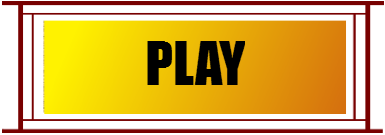
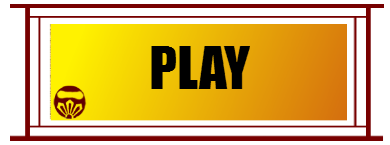
//Se subieron nuevo recursos (vidas de nivel agua,fuego, fondos de nivel fuego y agua, nuevos botones del menu principal, el ninja dle menu principal ya fue limpiado)

diff --git a/core/src/mx/itesm/ninjanofukushuu/PantallaCargando.java b/core/src/mx/itesm/ninjanofukushuu/PantallaCargando.java
@@ -165,6 +165,8 @@ public class PantallaCargando implements Screen
                     assetManager.load("seleccionNivel/galeriaWater.png",Texture.class);
                     assetManager.load("seleccionNivel/galeriaWaterLock.png",Texture.class);
 
+                    assetManager.load("seleccionNivel/galeriaWaterLock.png",Texture.class);
+
                     assetManager.load("Play.png",Texture.class);
                     assetManager.load("return.png",Texture.class);
                     assetManager.load("sonidoVentana.wav", Sound.class);
@@ -282,11 +284,11 @@ public class PantallaCargando implements Screen
                     break;
             case 6:
                 // se cargan recursos del juego..
-                //nivel tierra
+                //nivel Agua
                 assetManager.load("seleccionNivel/recursosNivelAgua/MapaDeAgua.tmx", TiledMap.class);  // Cargar info del mapa
                 //assetManager.load("seleccionNivel/recursosNivelTierra/marioSprite.png", Texture.class);    // Cargar imagen
                 assetManager.load("seleccionNivel/recursosNivelAgua/ninjita.png", Texture.class);    // Cargar imagen
-                //assetManager.load("seleccionNivel/recursosNivelAgua/fondoAgua.jpg",Texture.class); //Fondo del mapa
+                assetManager.load("seleccionNivel/recursosNivelAgua/fondoAgua.png",Texture.class); //Fondo del mapa
                 // Texturas de los botones tanto para el gampeplay como para mover las imagenes al ver la historia..
 
                 assetManager.load("seleccionNivel/botonesFlechas/salto.png", Texture.class);
@@ -329,7 +331,7 @@ public class PantallaCargando implements Screen
                 assetManager.load("seleccionNivel/recursosNivelFuego/mapaDeFuego.tmx", TiledMap.class);  // Cargar info del mapa
                 //assetManager.load("seleccionNivel/recursosNivelTierra/marioSprite.png", Texture.class);    // Cargar imagen
                 assetManager.load("seleccionNivel/recursosNivelFuego/ninjaS.png", Texture.class);    // Cargar imagen
-                //assetManager.load("seleccionNivel/recursosNivelAgua/fondoAgua.jpg",Texture.class); //Fondo del mapa
+                assetManager.load("seleccionNivel/recursosNivelFuego/fondoFuego.png",Texture.class); //Fondo del mapa
                 // Texturas de los botones tanto para el gampeplay como para mover las imagenes al ver la historia..
 
                 assetManager.load("seleccionNivel/botonesFlechas/salto.png", Texture.class);

diff --git a/core/src/mx/itesm/ninjanofukushuu/PantallaJuego.java b/core/src/mx/itesm/ninjanofukushuu/PantallaJuego.java
@@ -330,8 +330,8 @@ public class PantallaJuego implements Screen{
             hataku.getSprite().setPosition(20, 20);
 
             //Textura fondo
-            //this.texturaFondo = assetManager.get("seleccionNivel/recursosNivelTierra/fondoTierra.jpg");
-            //fondo = new Fondo(texturaFondo);
+            this.texturaFondo = assetManager.get("seleccionNivel/recursosNivelAgua/fondoAgua.png");
+            fondo = new Fondo(texturaFondo);
 
             //Textura Objetos que estan en la pantalla
             this.texturaScroll = assetManager.get("seleccionNivel/items/scroll.png");
@@ -479,8 +479,8 @@ public class PantallaJuego implements Screen{
             hataku.getSprite().setPosition(20, 20);
 
             //Textura fondo
-            //this.texturaFondo = assetManager.get("seleccionNivel/recursosNivelTierra/fondoTierra.jpg");
-            //fondo = new Fondo(texturaFondo);
+            this.texturaFondo = assetManager.get("seleccionNivel/recursosNivelFuego/fondoFuego.png");
+            fondo = new Fondo(texturaFondo);
 
             //Textura Objetos que estan en la pantalla
             this.texturaScroll = assetManager.get("seleccionNivel/items/scroll.png");
@@ -654,7 +654,7 @@ public class PantallaJuego implements Screen{
             //DIBUJAR OBJETOS COMPONENTES DEL JUEGO
         batch.setProjectionMatrix(camara.combined);
         batch.begin();
-        //fondo.render(batch);
+        fondo.render(batch);
         batch.end();
         rendererMapa.setView(camara);
         rendererMapa.render();  // Dibuja el mapa
